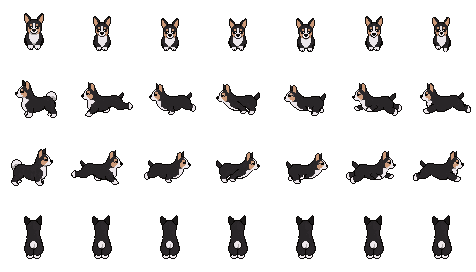
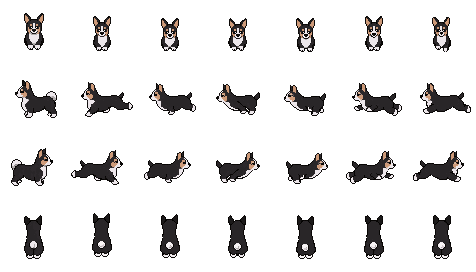
Гра 32×32: Бася бігає в усі чотири боки; ADR — мама й Бася з PixelLab
Claude-Session: https://claude.ai/code/session_01ESA7YasmJgt7vZNVKYPdPS

diff --git a/docs/05_ADR/ADR-0239-lena-life-game.md b/docs/05_ADR/ADR-0239-lena-life-game.md
@@ -791,6 +791,12 @@
 малюнка, тож людина малюється вдвічі меншою за аркуш:
 - **«Лєна мала HD (48)»** — зріст 24 світові пікселі;
 - **«Мама Лєни HD»** — зріст 35 світових пікселів.
+- **«Бася HD»** (ee1aa312-…, шаблон dog, size 48) — біг на 6 кадрів
+  (`dog.ts` за щільності 2).
+
+Мама ходить, а Бася бігає в усі чотири боки: «ліворуч» — дзеркало
+«праворуч». Кожен напрям генерується окремо, бо пробний тариф PixelLab
+дає одну генерацію за раз.
 
 **Тестовий варіант**, як і 2D до нього:
 - вмикається адресою `?art=hd` або кнопкою «HD» у меню гри, вимикається
